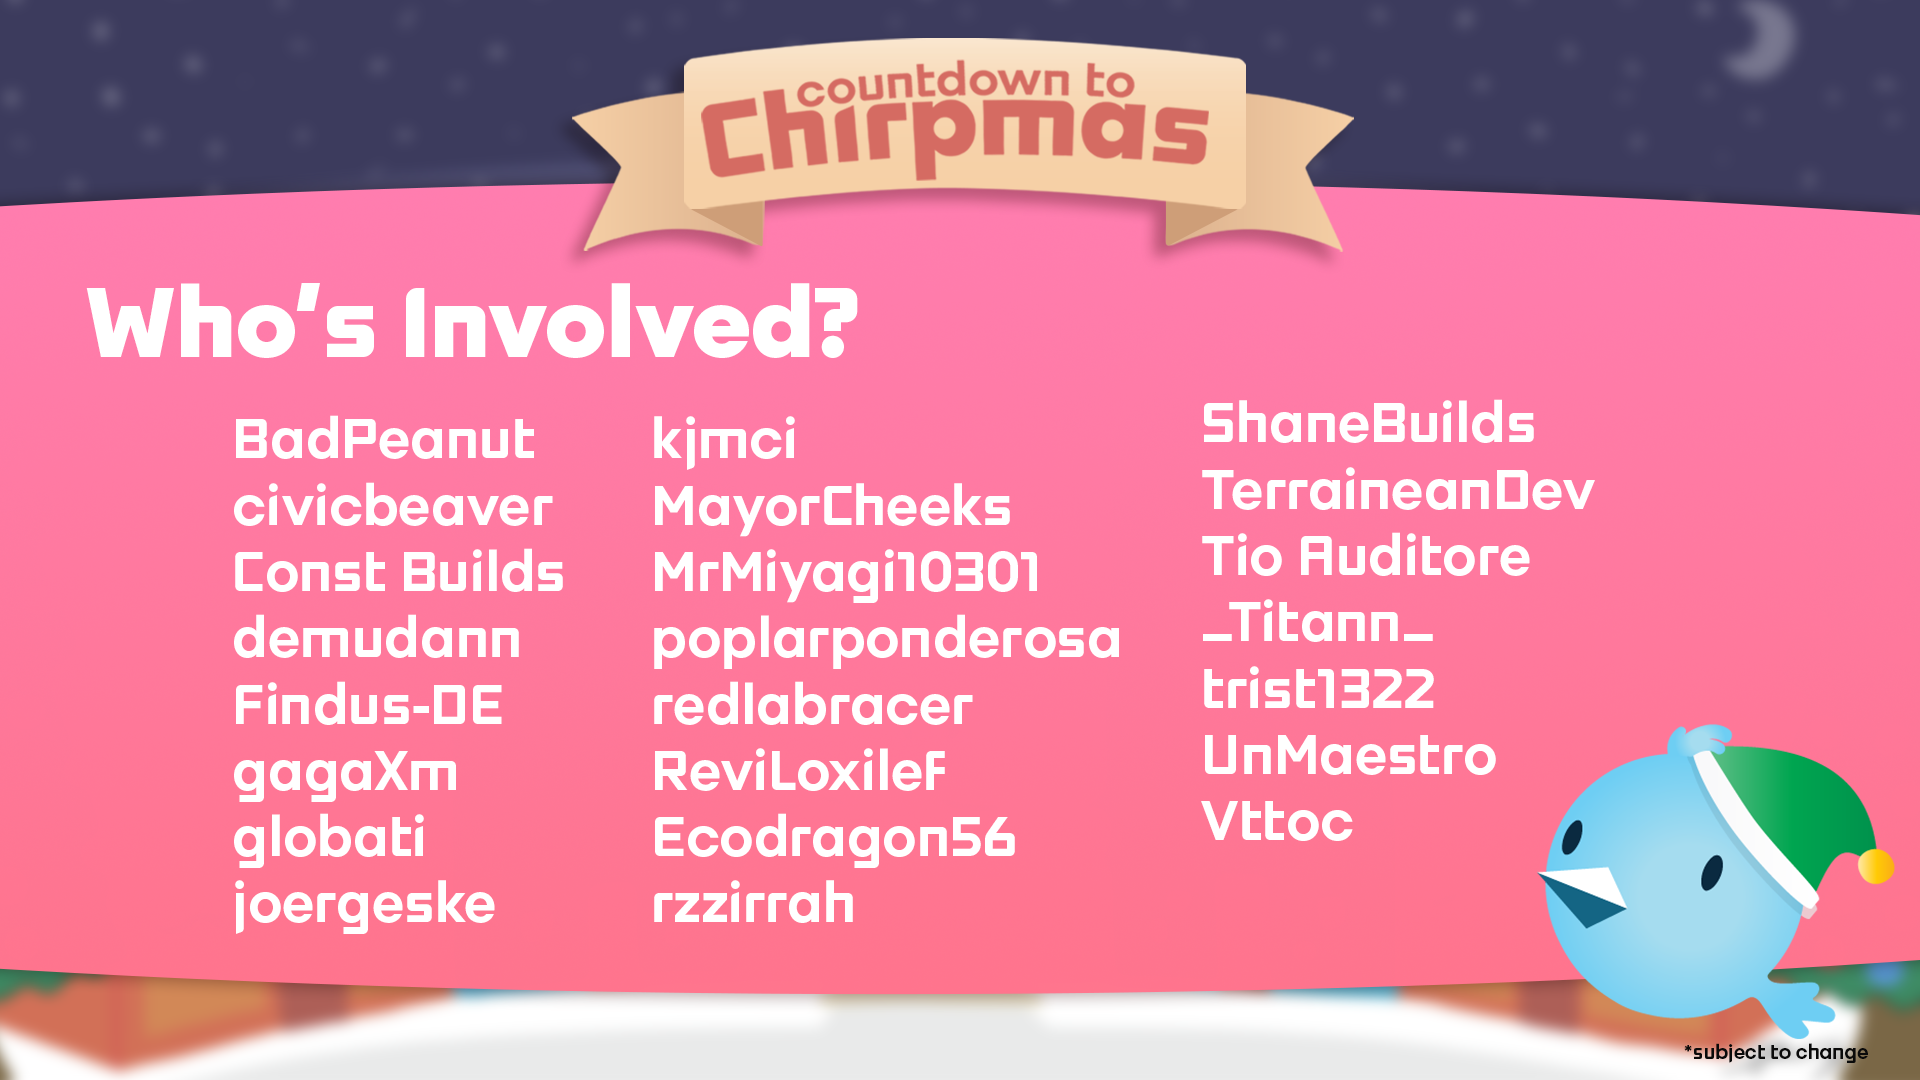
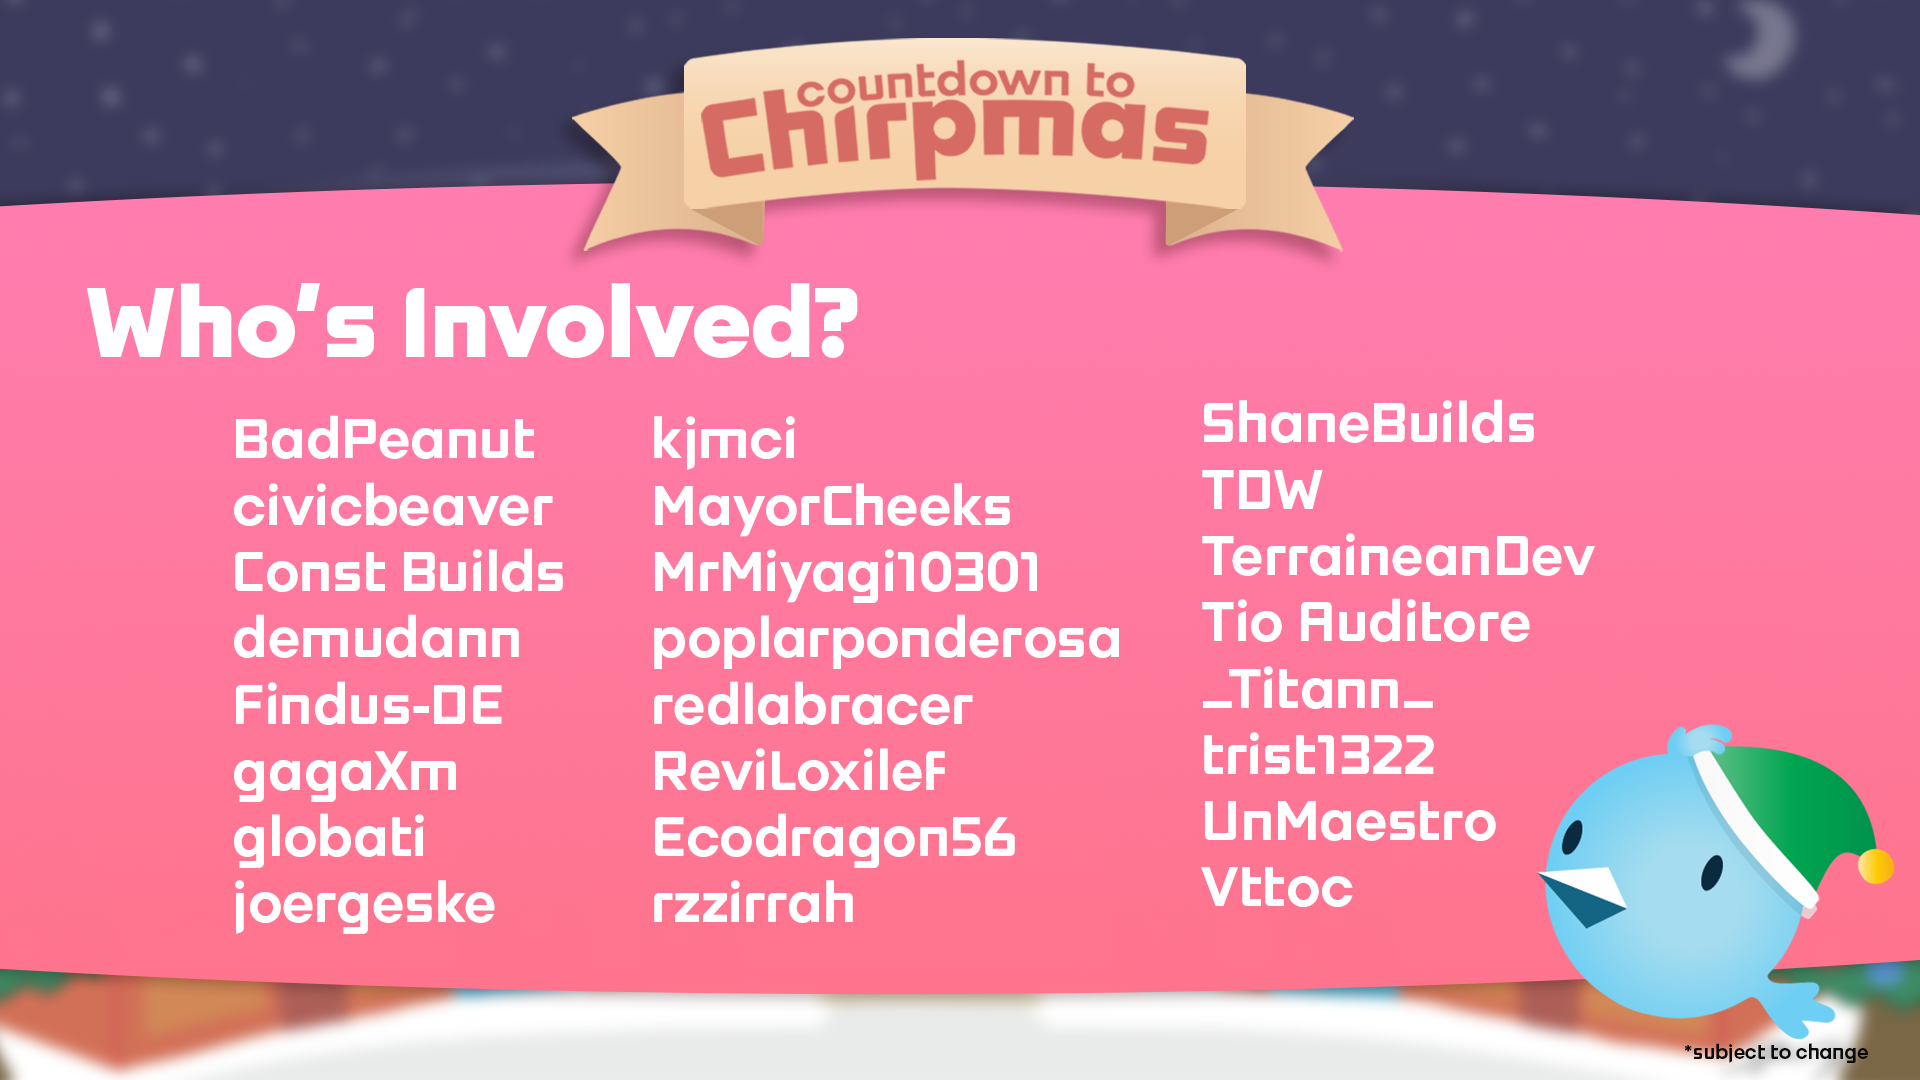
- Added TDW to the list of creators in the welcome pop-up. - New screenshots and an updated description on Paradox Mods.

Changed region(s): [[0.625, 0.4278, 0.8438, 0.8556]]

diff --git a/Chirpmas Calender/UI/src/creators.ts b/Chirpmas Calender/UI/src/creators.ts
@@ -17,6 +17,7 @@ export const CREATORS: string[] = [
     "ReviLoxilef",
     "rzzirrah",
     "ShaneBuilds",
+    "TDW",
     "TerraineanDev",
     "Tio Auditore",
     "Titann",
